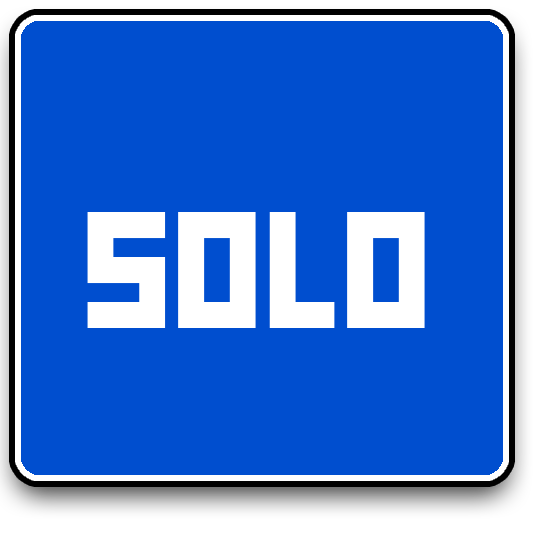
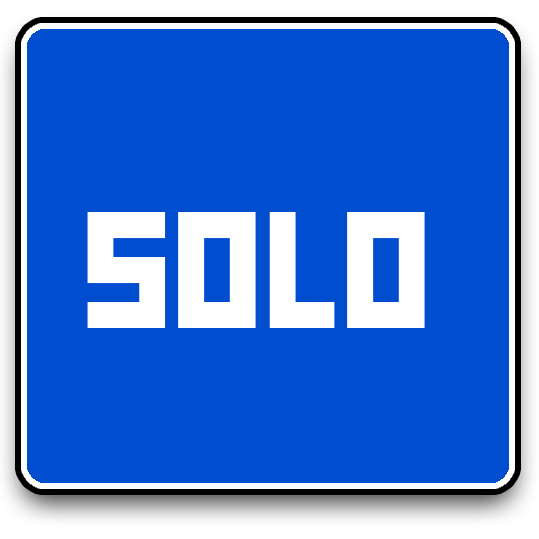
Debug bouton solo

Changed region(s): [[0.0, 0.0, 0.9796, 0.9796]]

diff --git a/SoccerGame/main.cpp b/SoccerGame/main.cpp
@@ -6,22 +6,24 @@ using namespace sf;
 
 int main()
 {
-	#pragma region VARIABLES
+#pragma region VARIABLES
 		RenderWindow window;
+		Event event;
 		Texture background, button_multi, button_solo, button_multi_push, button_solo_push;
 		Sprite sprite_background, sprite_multi, sprite_solo, sprite_setting, sprite_solo_push, sprite_multi_push;
-	#pragma endregion VARIABLES	
+#pragma endregion VARIABLES	
 
+#pragma region WINDOW
 	// Creer une fenetre avec le même mode de video que celui du Desktop
 	VideoMode desktop = VideoMode::getDesktopMode();
 	float dWidth = desktop.width;
 	float dHeight = desktop.height;
 	float dBPP = desktop.bitsPerPixel;
 	window.create(VideoMode(dWidth, dHeight, dBPP), "GameSoccer", Style::Fullscreen);
+#pragma endregion WINDOW
 
 	while (window.isOpen())
 	{
-		Event event;
 		while (window.pollEvent(event))
 		{
 			if (event.type == Event::KeyPressed) {
@@ -92,7 +94,7 @@ int main()
 		// On positione les sprite
 		sprite_multi.setPosition(705,233);
 		sprite_solo.setPosition(278, 233);
-		sprite_solo_push.setPosition(278, 250);
+		sprite_solo_push.setPosition(276, 253);
 		sprite_multi_push.setPosition(705, 250);
 		// On dessine la sprite
 		window.draw(sprite_multi);
@@ -125,7 +127,6 @@ int main()
 			}
 		}
 #pragma endregion BUTTON
-
 
 		window.display();
 	}
